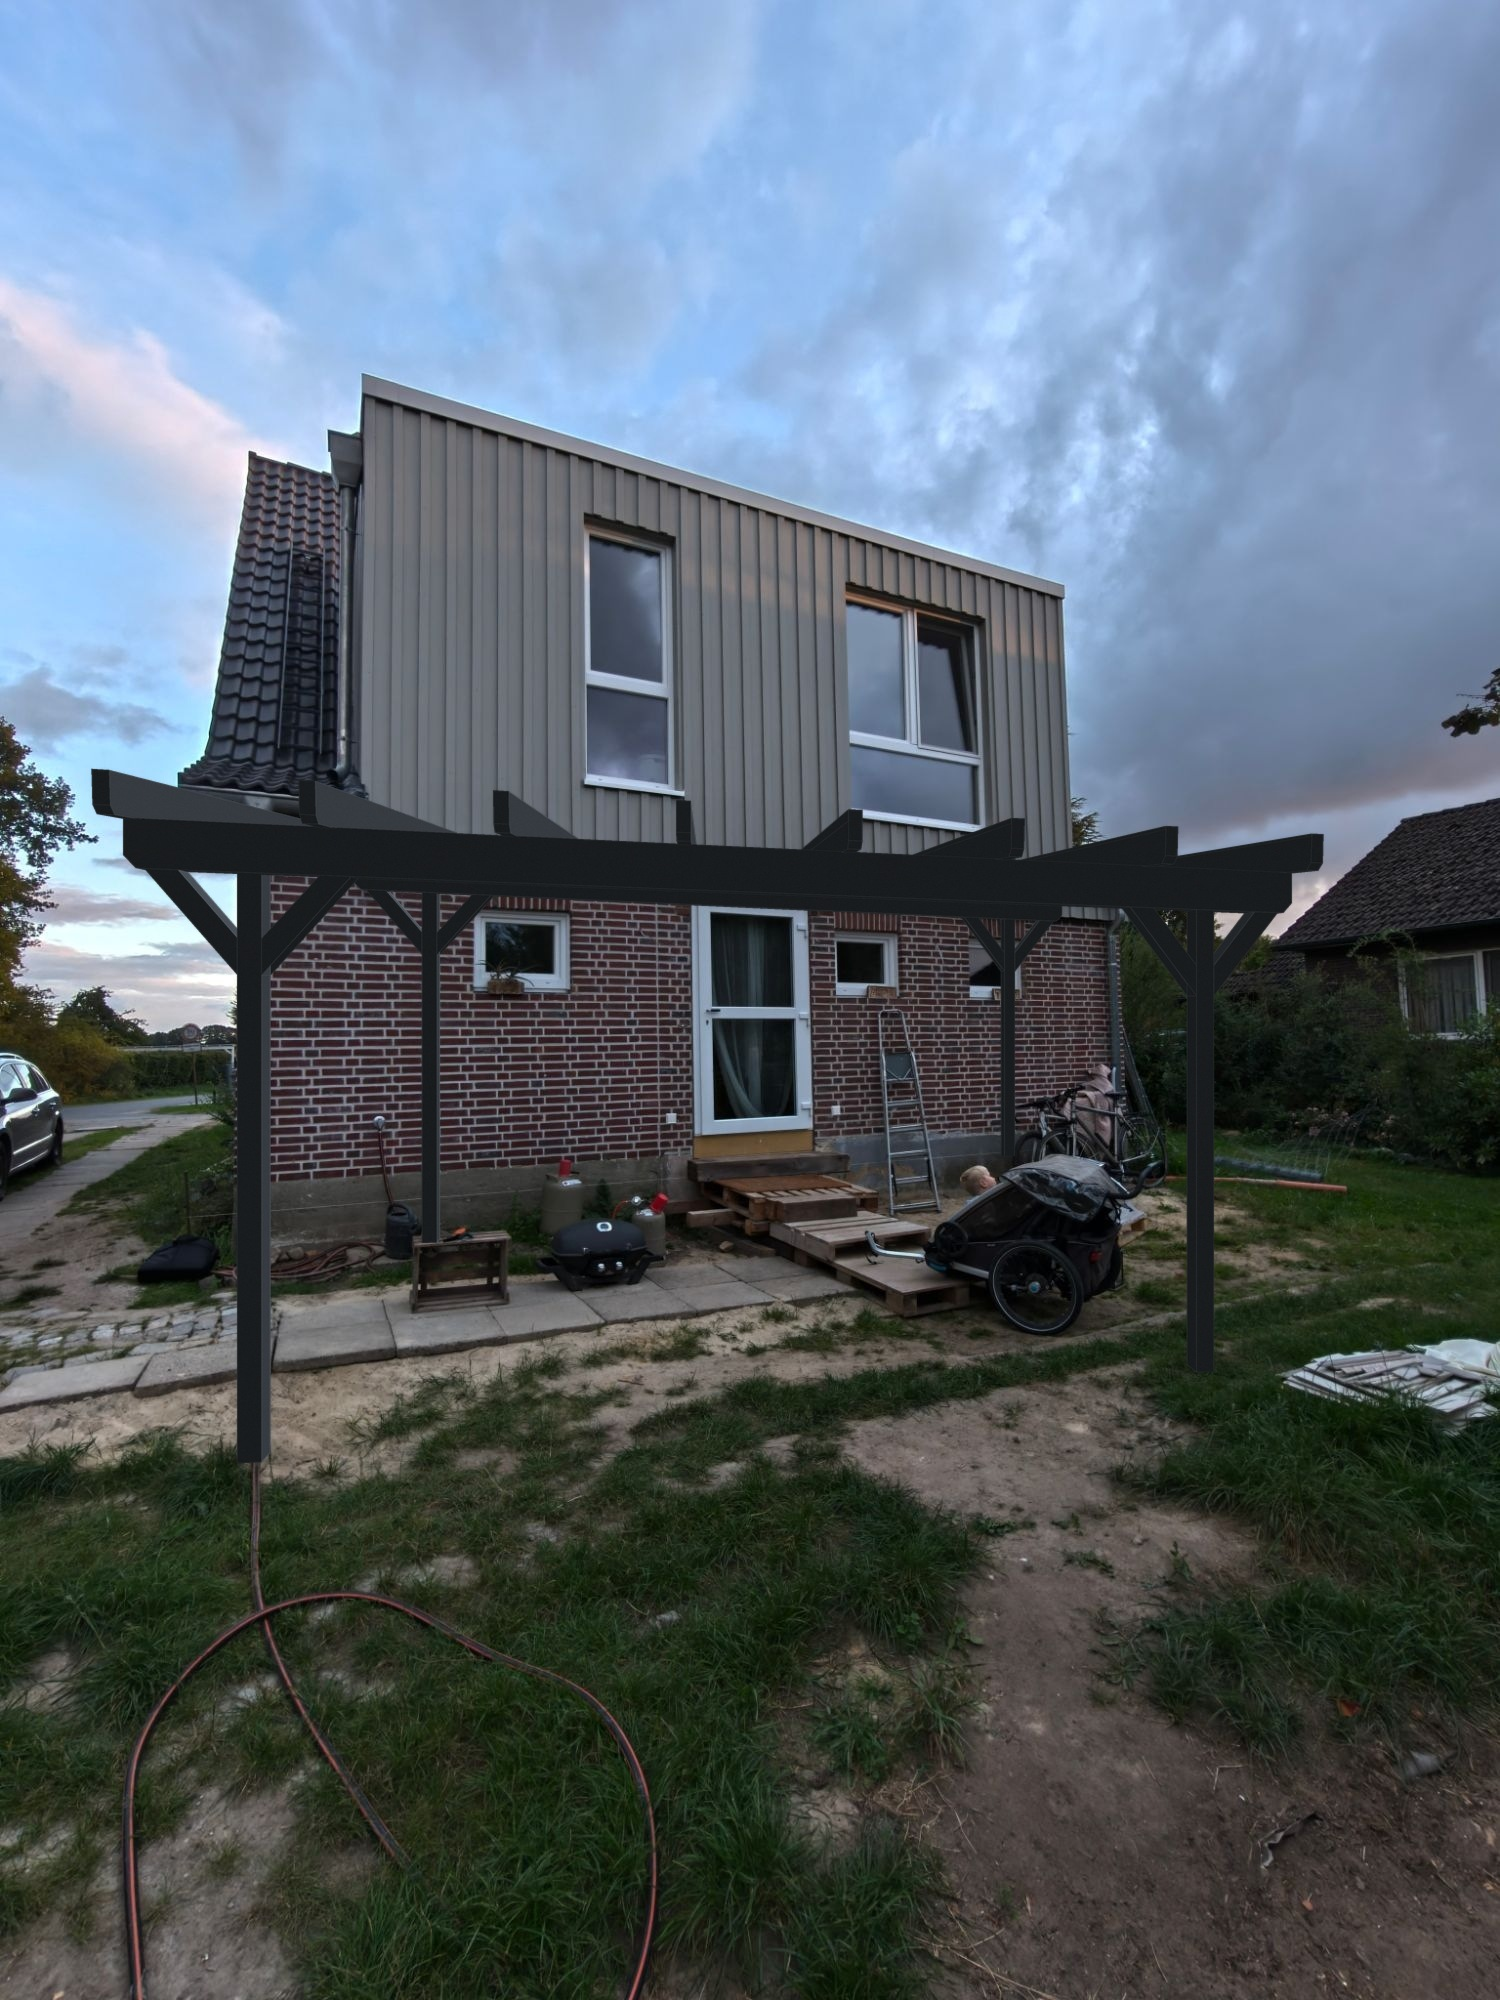
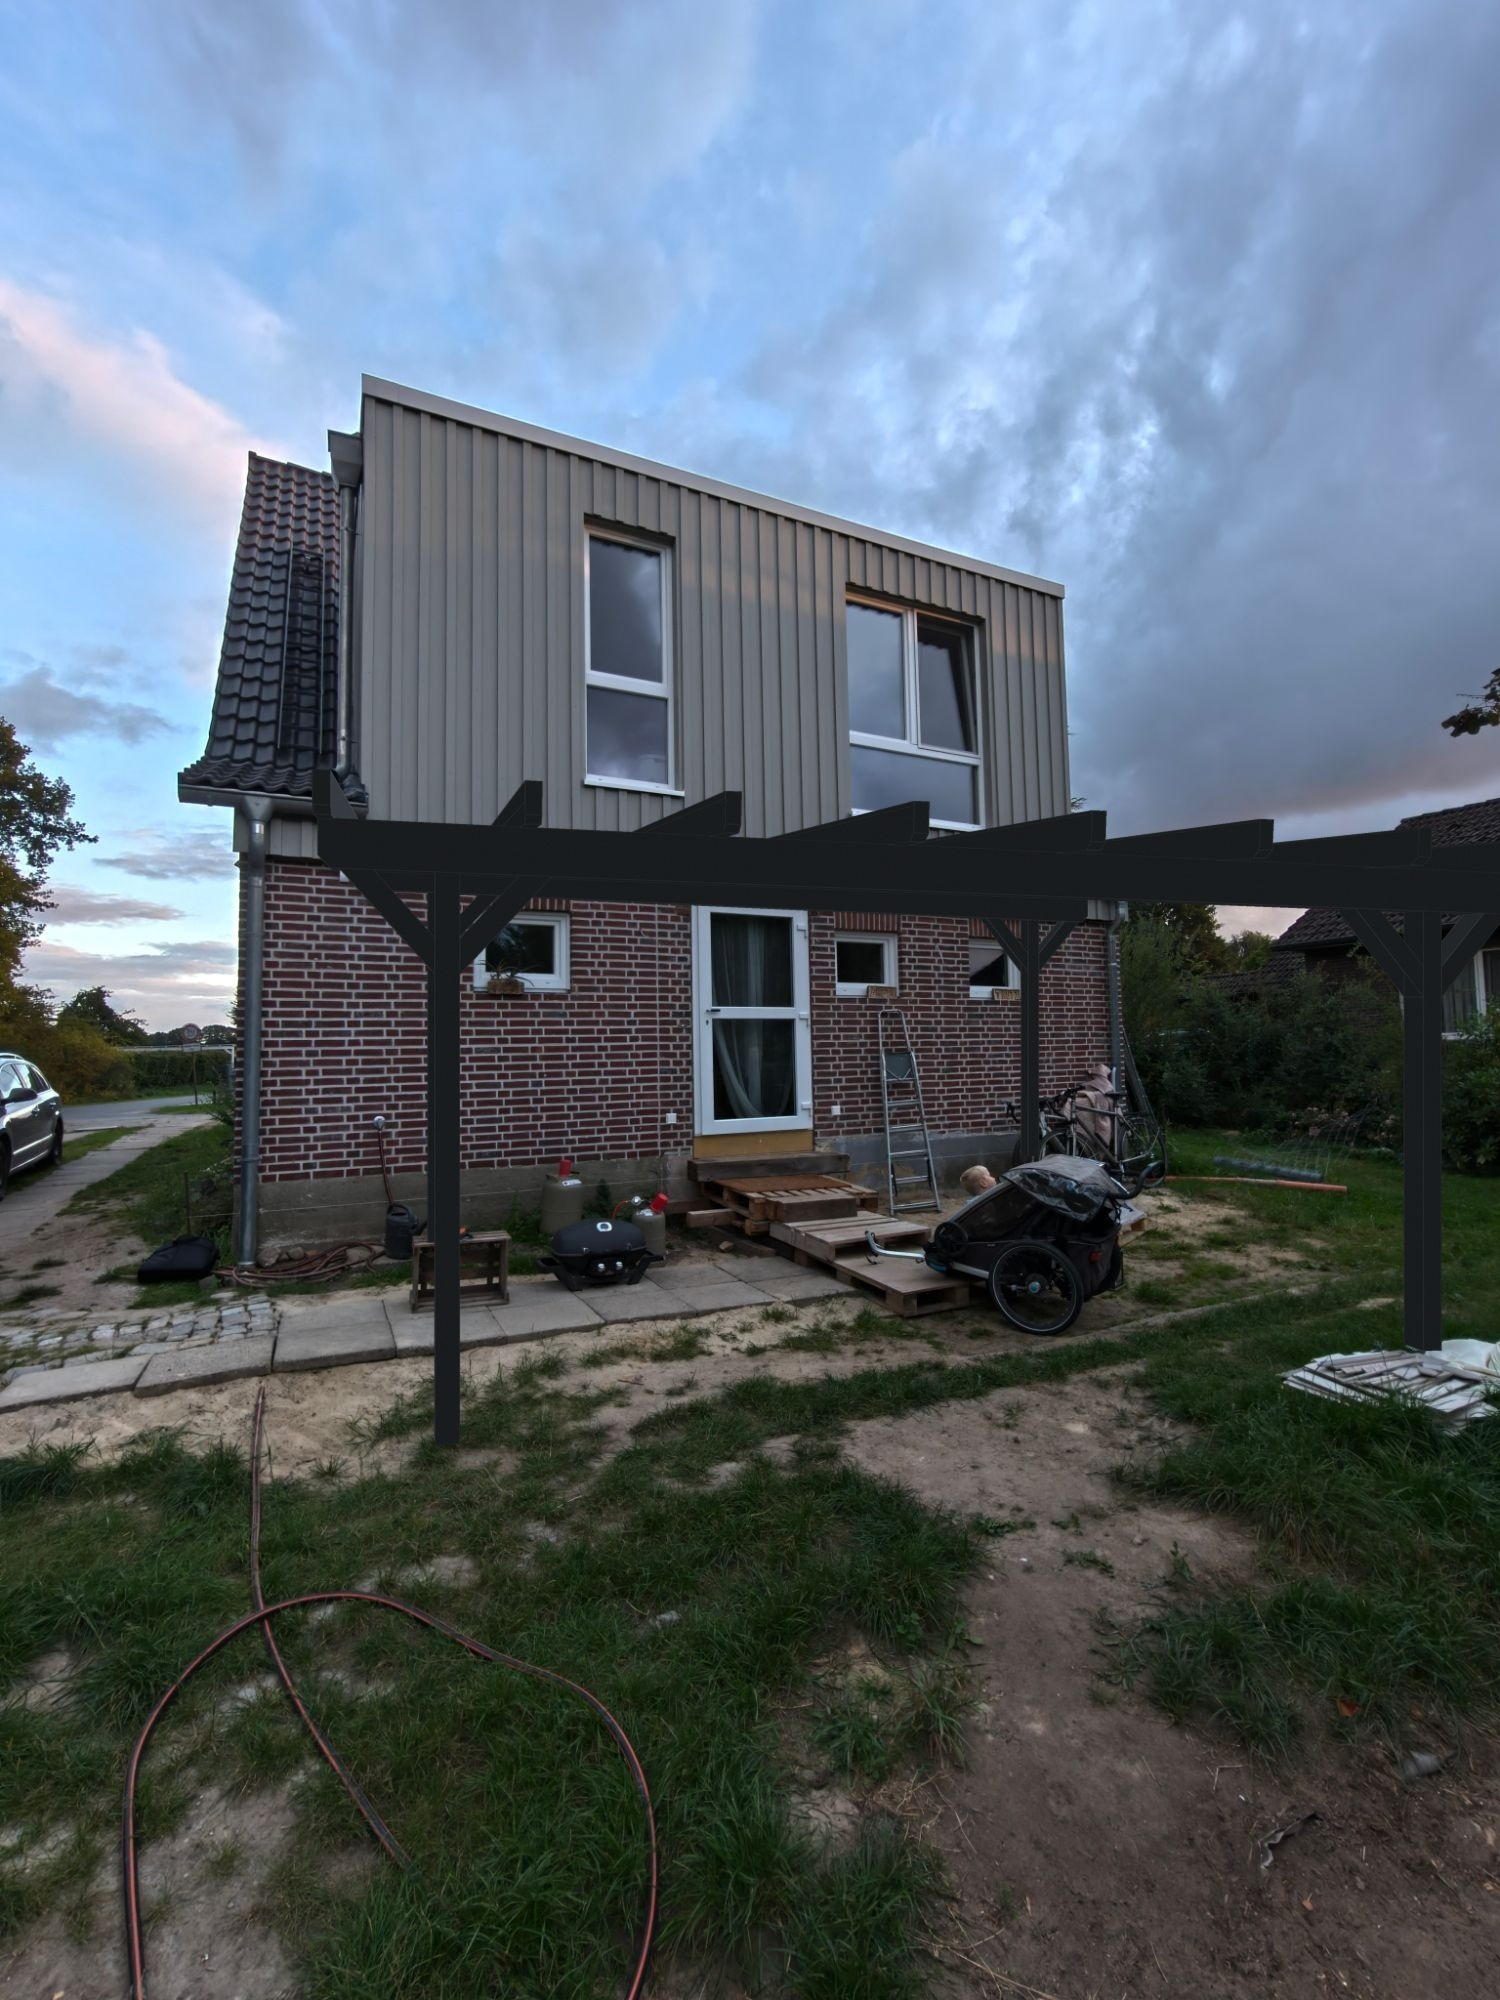
Visualisierung: seitliche Perspektive (Epipol am echten Kamerastandpunkt)
- Tiefen-Expansionszentrum vom Vordach-Zentrum auf den realen
  Standpunkt (linkes Drittel, Yc ca. 0,5 m) verlegt: beide vordere
  Stiele ruecken nach rechts, Sparren zeigen Seitenflaechen
- Rechte Ankante auf 1080 px: hinterer rechter Stiel steht rechts
  neben dem Fenster

Claude-Session: https://claude.ai/code/session_01UVbrZFUKP6YXkDm2eNCtTw

diff --git a/visualisierungen/montage_ifc.py b/visualisierungen/montage_ifc.py
@@ -7,7 +7,8 @@ import re, os
 
 IFC = 'vordach.ifc'
 PHOTO = 'haus_neu.jpg'
-HN = np.load('homography2.npy')         # Wandebene exakt aus dem Foto-Fit
+HN = np.load('homography3.npy')
+EPI = np.load('epipol.npy')         # Wandebene exakt aus dem Foto-Fit
 
 # ---------------- mini IFC parser (tessellierte Geometrie) ----------------
 ents = {}
@@ -110,9 +111,9 @@ def H_uv(Y, Z):
     return (HN[0]*Y + HN[1])/den, (HN[3]*Z + HN[4]*Y + HN[5])/den
 
 VARIANTE = os.environ.get('VARIANTE', 'A')
-UE, VE = 707.5, 986.7                  # Epipol: Vordach-Mitte, Augenhoehe
+UE, VE = float(EPI[0]), float(EPI[1])  # Epipol = echter Kamerastandpunkt (links)
 DV = 80.0 if VARIANTE == 'A' else 10.0
-CPOS = np.array([DV, 3.4, 1.3])
+CPOS = np.array([DV, 0.5, 1.3])
 SS = 3
 
 def proj(p):
